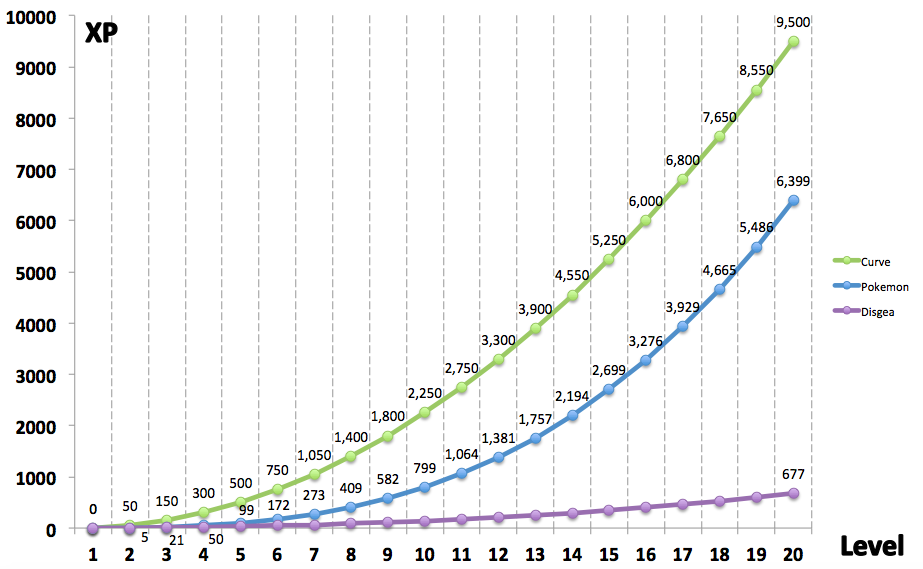
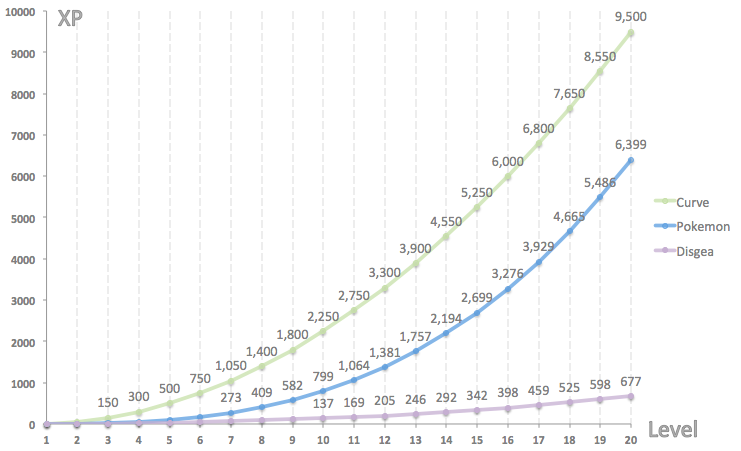
Update description text and image for default text when there is no level configured

Changed region(s): [[0.0, 0.0, 0.9933, 0.9933], [0.8691, 0.4967, 0.9933, 0.5898], [0.8691, 0.4346, 0.9622, 0.4656]]

diff --git a/application/language/english/level_lang.php b/application/language/english/level_lang.php
@@ -10,9 +10,10 @@ $lang['text_all']				= 'All';
 $lang['text_success']			= 'You have successfully created a level';
 $lang['text_success_update']	= 'You have successfully updated a level';
 $lang['text_success_delete']	= 'You have successfully deleted level(s)';
-$lang['text_guide_level']		= 'Create levels automatically using one of provided templates. Just specify how many levels you need and select template.<br> This is how your levels progression will look like:<br>
+$lang['text_guide_level']		= 'You can add levels automatically using one of provided templates: Curve, Pokemon, Disgea. Just choose how many levels you need and select template.<br>
+Level progression for each template (for first 20 levels):<br>
 [img]<br>
-Or add levels manually specifying your own values.';
+You can also add levels manually.';
 
 // Button
 $lang['button_add']						= 'Add Badge';
